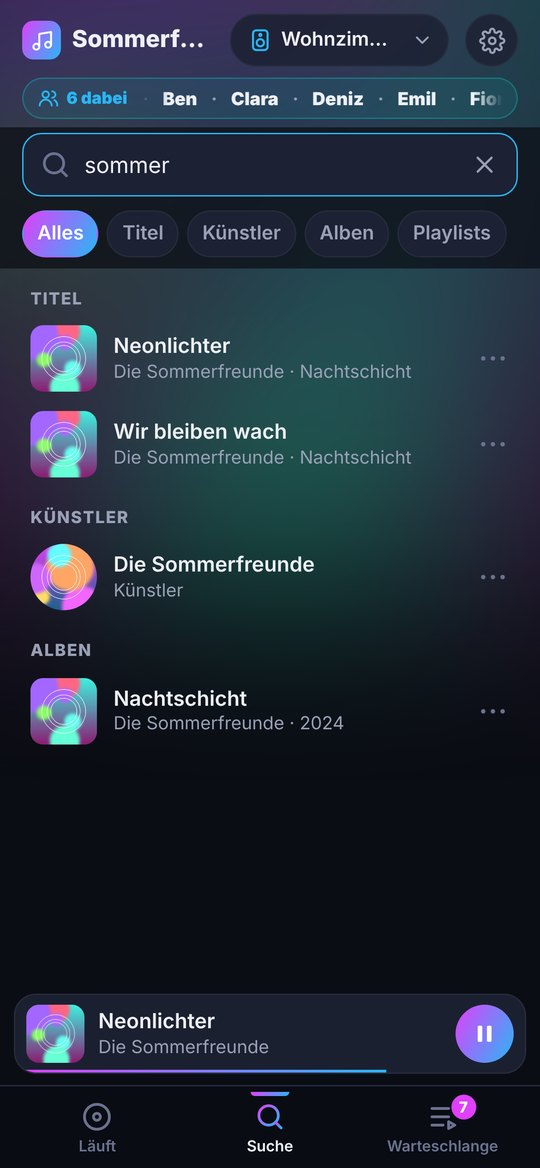
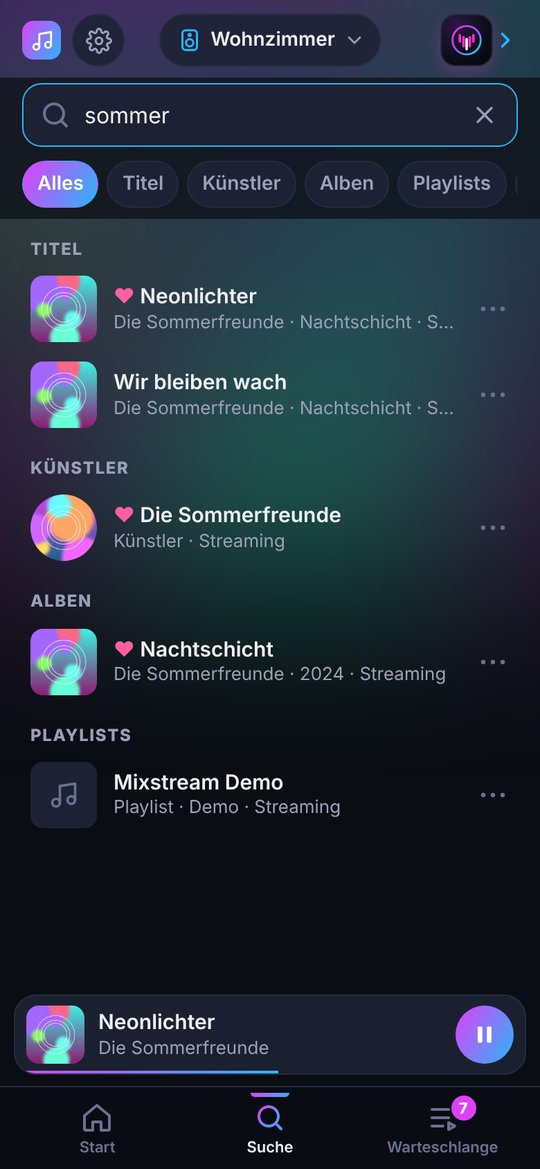
README: neue Screenshots (Startseite, Player, Album, Einstellungen-Reiter) und Funktionen ergänzt

diff --git a/README.md b/README.md
@@ -6,30 +6,31 @@ Home-Assistant-Add-on für Partys und den Alltag mit **Music Assistant**: eine J
   <img src="docs/screenshots/tv.jpg" width="100%" alt="TV-Anzeige">
 </p>
 
-| Jukebox | Party-Seite (Gäste) | Einstellungen |
+| Jukebox – Startseite | Player (aufgeklappt) | Party-Seite (Gäste) |
 |:---:|:---:|:---:|
-| <img src="docs/screenshots/jukebox-jetzt.jpg" width="260"> | <img src="docs/screenshots/party.jpg" width="260"> | <img src="docs/screenshots/jukebox-einstellungen.jpg" width="260"> |
+| <img src="docs/screenshots/jukebox-start.jpg" width="260"> | <img src="docs/screenshots/jukebox-jetzt.jpg" width="260"> | <img src="docs/screenshots/party.jpg" width="260"> |
 
 ---
 
 ## Was kann es?
 
 ### 🎛 Jukebox (für dich)
-- Suchen nach Titeln, Künstlern, Alben und Playlists. Künstler, Alben und Playlists lassen sich öffnen und durchklicken.
+- Suchen nach Titeln, Künstlern, Alben, Playlists, Radio, Podcasts und Hörbüchern. Künstler, Alben, Playlists und Podcasts lassen sich öffnen (großes Cover) und durchklicken. Unter jedem Eintrag steht die Quelle (z. B. Tidal, Spotify, TuneIn).
 - Warteschlange: Titel per Griff ≡ verschieben, entfernen, Titel als Nächstes einreihen
 - Lautsprecher wählen und gruppieren; die Lautstärke regelst du für die ganze Gruppe oder für jede Box einzeln.
 - **Cover antippen** → Songtext läuft mit · **Cover lange drücken** → laufender Titel zu den Favoriten (Rahmen im Farbverlauf)
 - **Startseite** wie bei Spotify: Zuletzt gespielt, Favoriten (Kacheln je Art, antippen = Liste mit Suchfeld), Empfehlungen, Meine Playlists, neue Podcast-Folgen. Die Leiste unten hat Start · Suche · Warteschlange.
 - **Player zum Aufklappen**: Mini-Leiste antippen → großes Cover mit Steuerung; ⌄, nach unten wischen oder Zurück klappt ihn zu
 - **Favorit speichern**: ♥ oben rechts bei Playlist/Album/Künstler oder Cover lange drücken
-- Suche auch nach **Radio, Podcasts und Hörbüchern**; ein Podcast zeigt seine Folgen (neueste zuerst)
+- Ein Podcast zeigt seine Folgen (neueste zuerst, mit Datum und „gehört“)
+- **Mehrere Personen**: oben auf der Startseite die Person wählen – Favoriten, Zuletzt gespielt, Empfehlungen und Playlists gehören dann zu ihr (eigene Musikquellen in Music Assistant)
 - Teilnehmer-Laufband: wer gerade auf der Party ist
 - **Liste leeren & TV-Ton**: schwebender Knopf in der Warteschlange – kommende Titel oder alles entfernen; bei Lautsprechern mit TV-Eingang (z. B. Sonos Beam) auch auf den Fernseher-Ton umschalten und zurück
 - In der Android-App: Player in der Benachrichtigung und auf dem Sperrbildschirm, Lautstärketasten regeln die Musik
 
-| Suche | Künstler | Warteschlange |
+| Suche | Album geöffnet | Warteschlange |
 |:---:|:---:|:---:|
-| <img src="docs/screenshots/jukebox-suche.jpg" width="240"> | <img src="docs/screenshots/jukebox-kuenstler.jpg" width="240"> | <img src="docs/screenshots/jukebox-warteschlange.jpg" width="240"> |
+| <img src="docs/screenshots/jukebox-suche.jpg" width="240"> | <img src="docs/screenshots/jukebox-album.jpg" width="240"> | <img src="docs/screenshots/jukebox-warteschlange.jpg" width="240"> |
 
 ### 🥳 Party-Seite (für Gäste)
 Gäste scannen den QR-Code auf dem Fernseher und können:
@@ -41,15 +42,18 @@ Gäste scannen den QR-Code auf dem Fernseher und können:
 Aktueller Song mit Songtext (zeitgenau), Warteschlange, „Als Nächstes“, QR-Code, neue Gäste, Getränke-Ranking und Nachschub-Hinweise.
 
 ### ⚙ Einstellungen direkt in der Jukebox
-Zahnrad oben rechts:
+Zahnrad oben links – in Reitern **Persönlich · Party · TV & Räume · Info**:
 - **Lichteffekte** an/aus (eigene HA-Skripte bei Wunsch, Vordrängeln, Nachschub – [Vorlagen](lichteffekte/))
 - **Abstimmung** an/aus, **Gast-Limits** (Wünsche und Vordrängeln pro Gast, Nachfüllzeit)
 - **TV-Anzeige**: Songtext-Versatz, volle Optik oder Spar-Modus für langsame Geräte
 - **Räume · Auto-Beitritt**: Lautsprecher + Bewegungsmelder je Raum – wer den Raum betritt, hört die laufende Musik mit, ohne Bewegung trennt sich die Box wieder. Sperre per Schloss (mit Restzeit), optional über einen eigenen HA-Schalter (z. B. für Alexa)
 - **Party-Plugin** von Music Assistant installieren, ein- und ausschalten
+- **Startseite pro Person**: Reihenfolge der Reihen (Zuletzt gespielt, Favoriten, Empfehlungen, Meine Playlists, Neue Podcast-Folgen) mit ▲▼ festlegen, einzelne Reihen ausblenden
 - **Schalter**: eigene Home-Assistant-Schalter direkt in der Jukebox schalten (z. B. „Musik beim Heimkommen“). Unter „Schalter auswählen“ stehen zuerst deine **Helfer** (`input_boolean`) – die legst du in HA unter *Einstellungen → Geräte & Dienste → Helfer → Schalter* an und nutzt sie in deinen Automationen als Bedingung. Über das **Suchfeld** findest du auch alle anderen Schalter (`switch.*`). Es erscheinen nur die Schalter, die du auswählst – ohne Auswahl bleibt der Bereich leer.
 
-<p align="center"><img src="docs/screenshots/jukebox-raeume.jpg" width="260" alt="Räume"></p>
+| Einstellungen (Reiter) | Räume · Auto-Beitritt |
+|:---:|:---:|
+| <img src="docs/screenshots/jukebox-einstellungen.jpg" width="260"> | <img src="docs/screenshots/jukebox-raeume.jpg" width="260"> |
 
 ---
 
